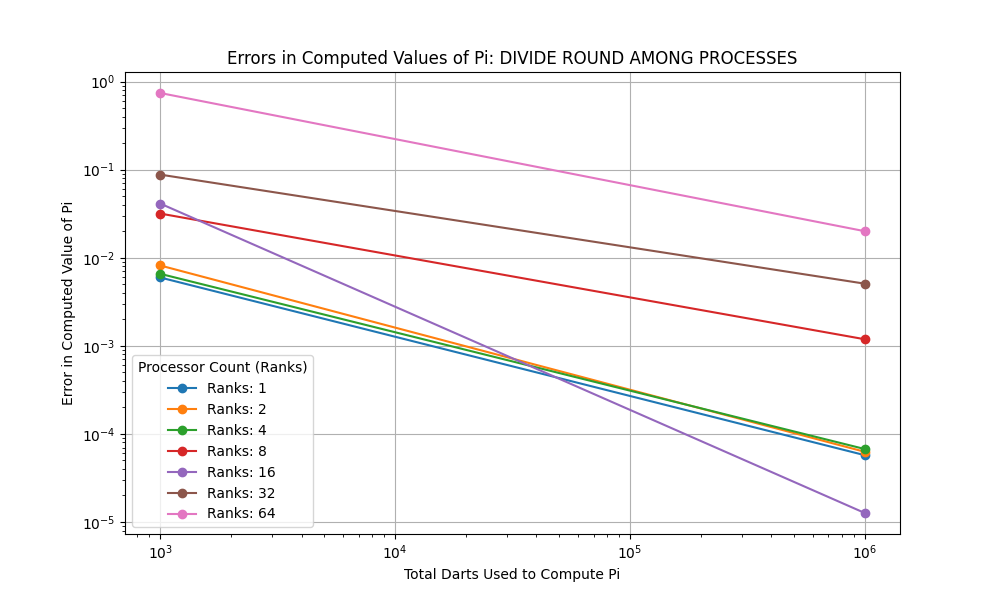
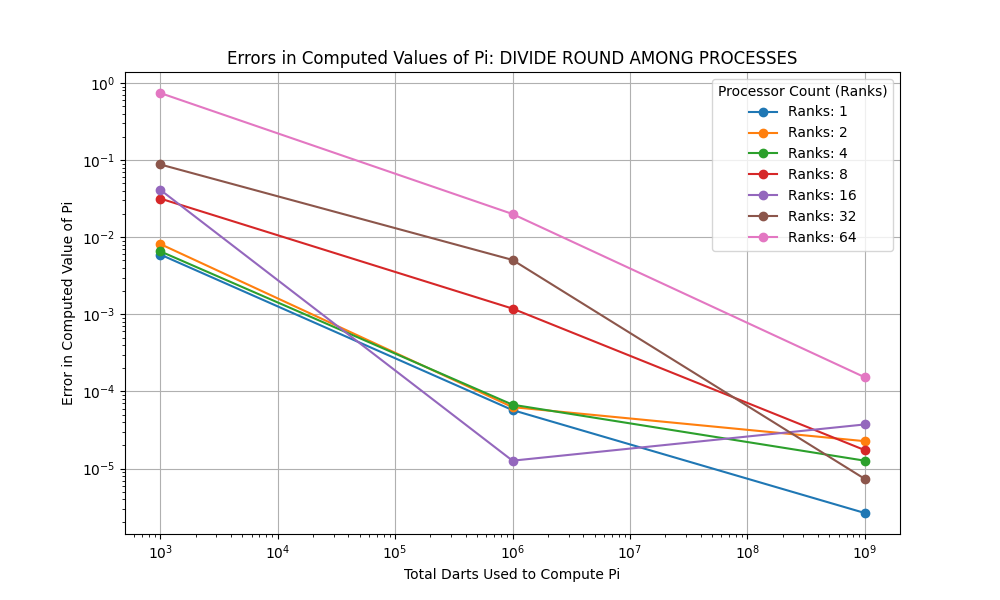
Q4 Part 6

diff --git a/plot_mpi_charts.py b/plot_mpi_charts.py
@@ -7,6 +7,7 @@ FILENAME = "data_readme_part4_q4.csv"
 SAME_ROUND = "SAME ROUND FOR EACH PROCESS"
 DIVIDE_ROUND = "DIVIDE ROUND AMONG PROCESSES"
 TRUE_PI = 3.141592653589793
+df = pd.read_csv(FILENAME)
 
 def plot_pi_error_for_darts_used(run_type):
     df = pd.read_csv(FILENAME)
@@ -32,10 +33,31 @@ def plot_pi_error_for_darts_used(run_type):
     else:
         plt.savefig('plots/pi_error_for_darts_used_divided_round.png')
 
+def plot_runtime_versus_processor_count(run_type, total_darts):
+    plt.figure(figsize=(10, 6))
+    
+    # Filter the data for the specified run type and total darts
+    df_run_type_darts = df[(df['run_type'] == run_type) & (df['total_darts'] == total_darts)]
+    
+    plt.plot(df_run_type_darts['ranks'], df_run_type_darts['time_taken'], label=f"{total_darts} Darts", marker='o')
 
-def plot_runtime_versus_processor_count():
-    # TODO: CHRIS
-    pass
+    actual_runtimes = df_run_type_darts.groupby('total_darts')['time_taken'].sum().values
+    ideal_scaling_line = df_run_type_darts['time_taken'].iloc[0] / df_run_type_darts['ranks']
+    ideal_runtimes = ideal_scaling_line.sum()
+    efficiency = calculate_scaling_efficiency(actual_runtimes, ideal_runtimes)
+    print(f"Run Type: {run_type}, Total Darts: {total_darts}, Overall Efficiency: {efficiency[0]:.2f}%")
+
+    plt.plot(df_run_type_darts['ranks'], ideal_scaling_line, '--', label=f"Ideal Scaling ({total_darts} Darts)")
+
+    plt.title(f"{total_darts} Darts Runtime vs. Processor Count: {run_type}")
+    plt.xlabel("Processor Count (Ranks)")
+    plt.ylabel("Runtime (seconds)")
+    plt.legend()
+    plt.grid(True)
+    if run_type == "SAME ROUND FOR EACH PROCESS":
+        plt.savefig('plots/pi_runtime_versus_processor_count_' + str(total_darts) + '_darts_same_round.png')
+    else:
+        plt.savefig('plots/pi_runtime_versus_processor_count_' + str(total_darts) + '_darts_divided_round.png')
 
 def compute_convergence_rate(x, y):
     log_x = np.log(x)
@@ -44,7 +66,6 @@ def compute_convergence_rate(x, y):
     return slope
 
 def print_pi_convergence_rate_for_darts_used(run_type):
-    df = pd.read_csv(FILENAME)
     df_run_type = df[df['run_type'] == run_type]
     df_run_type['error'] = abs(df_run_type['pi_est'] - TRUE_PI)
     grouped = df_run_type.groupby('ranks')
@@ -57,8 +78,19 @@ def print_pi_convergence_rate_for_darts_used(run_type):
         print(f"Processor Count (Ranks): {name}, Convergence Rate: {convergence_rate}")
 
 
+def calculate_scaling_efficiency(actual_runtimes, ideal_runtimes):
+    efficiencies = (ideal_runtimes / actual_runtimes) * 100
+    return efficiencies
+
 if __name__ == "__main__":
-    plot_pi_error_for_darts_used(SAME_ROUND)
-    plot_pi_error_for_darts_used(DIVIDE_ROUND)
-    print_pi_convergence_rate_for_darts_used(SAME_ROUND)
-    print_pi_convergence_rate_for_darts_used(DIVIDE_ROUND)
+    # plot_pi_error_for_darts_used(SAME_ROUND)
+    # plot_pi_error_for_darts_used(DIVIDE_ROUND)
+    # print_pi_convergence_rate_for_darts_used(SAME_ROUND)
+    # print_pi_convergence_rate_for_darts_used(DIVIDE_ROUND)
+
+    dart_counts = df['total_darts'].unique()
+    run_types = df['run_type'].unique()
+
+    for run_type in run_types:
+        for total_darts in dart_counts:
+            plot_runtime_versus_processor_count(run_type, total_darts)

diff --git a/README.md b/README.md
@@ -266,7 +266,7 @@ Pi is the ratio of a circle's circumference to its diameter. As such, the value 
     |-------|--------------|--------------|--------------|--------------|--------------|--------------|--------------|
     | 1E3   | 0.00977261   | 0.00558326   | 0.00277997   | 0.00197969   | 0.0117149    | 0.010407     | 0.0174867    |
     | 1E6   | 3.64086      | 1.82106      | 0.972136     | 0.546443     | 0.310115     | 0.196127     | 0.130844     |
-    | 1E9   | ...          | ...          | ...          | ...          | ...          | ...          | ...          |
+    | 1E9   | 2615.84      | 1301.17      | 650.311      | 326.866      | 163.577      | 82.0594      | 44.9402      |
 
     **DIVIDED ROUNDS PER PROCESS**
 
@@ -274,7 +274,7 @@ Pi is the ratio of a circle's circumference to its diameter. As such, the value 
     |-------|--------------|--------------|--------------|--------------|--------------|--------------|--------------|
     | 1E3   | 0.00803623   | 0.00243511   | 0.000715013  | 0.000194071  | 8.03005e-05  | 0.000891293  | 0.00109989   |
     | 1E6   | 3.51798      | 0.898393     | 0.227843     | 0.0586256    | 0.0148855    | 0.00428933   | 0.00108942   |
-    | 1E9   | ...          | ...          | ...          | ...          | ...          | ...          | ...          |
+    | 1E9   | 2663.37      | 654.638      | 163.787      | 39.5689      |   9.95769    | 2.50678      | 0.490835     |
 
 5. For each processor count, plot the resulting errors in your computed values of `pi` compared to the true value as functions of the number of darts used to compute it. Use log-log scaling on this plot. What is the rate of convergence of your algorithm for computing `pi`? Does this value make sense? Does the error or rate of convergence to the correct answer vary with processor count? Should it?
 
@@ -314,11 +314,46 @@ Pi is the ratio of a circle's circumference to its diameter. As such, the value 
 
     **SAME ROUNDS PER PROCESS**
 
-    TODO: CHRIS
+    *1E3 Darts*
+    ![Run-time Vs. Processor Count - 1E3 Darts - Same Rounds for Each Process](plots/pi_runtime_versus_processor_count_1000_darts_same_round.png)
+
+    *1E6 Darts*
+    ![Run-time Vs. Processor Count - 1E6 Darts - Same Rounds for Each Process](plots/pi_runtime_versus_processor_count_1000000_darts_same_round.png)
+
+    *1E9 Darts*
+    ![Run-time Vs. Processor Count - 1E9 Darts - Same Rounds for Each Process](plots/pi_runtime_versus_processor_count_1000000000_darts_same_round.png)
 
     **DIVIDED ROUNDS PER PROCESS**
 
-    TODO: CHRIS
+    *1E3 Darts*
+    ![Run-time Vs. Processor Count - 1E3 Darts - Divided Rounds for Each Process](plots/pi_runtime_versus_processor_count_1000_darts_divided_round.png)
+
+    *1E6 Darts*
+    ![Run-time Vs. Processor Count - 1E6 Darts - Divided Rounds for Each Process](plots/pi_runtime_versus_processor_count_1000000_darts_divided_round.png)
+
+    *1E9 Darts*
+    ![Run-time Vs. Processor Count - 1E9 Darts - Divided Rounds for Each Process](plots/pi_runtime_versus_processor_count_1000000000_darts_divided_round.png)
+
+    And here are the calculated parallel scaling efficiencies by dart count. Since it specifies only calculating by dart count, I sum the actual runtimes and ideal runtimes for each processor and then do the following equation:
+
+    $Efficiency = \frac{Actual Runtime}{Ideal Runtime} \times 100$
+
+    For each dart count, here is the resulting efficiencies:
+    **SAME ROUNDS PER PROCESS**
+    | Dart Count | Efficiencies (%) |
+    |------------|------------------|
+    |    1E3     |      32.47%      |
+    |    1E6     |      94.84%      |
+    |    1E9     |     100.12%      |
+
+    **DIVIDED ROUNDS PER PROCESS**
+    | Dart Count | Efficiencies (%) |
+    |------------|------------------|
+    |    1E3     |     118.55%%     |
+    |    1E6     |     147.81%      |
+    |    1E9     |     149.54%      |
+
+    The parallel performance does vary with dart count. The efficiency is supposed to tell us how well the code scales as the number of darts increase. And we can see that in this case here, where the efficiency increases as dart count goes up.
 
 7. Going further. Try running your code on different node types on HPCC with varied core counts. In particular, try to ensure that your runs utilize multiple nodes so that the communication network is used. Do you see a change in the communication cost when the job is run on more than one node?
 
